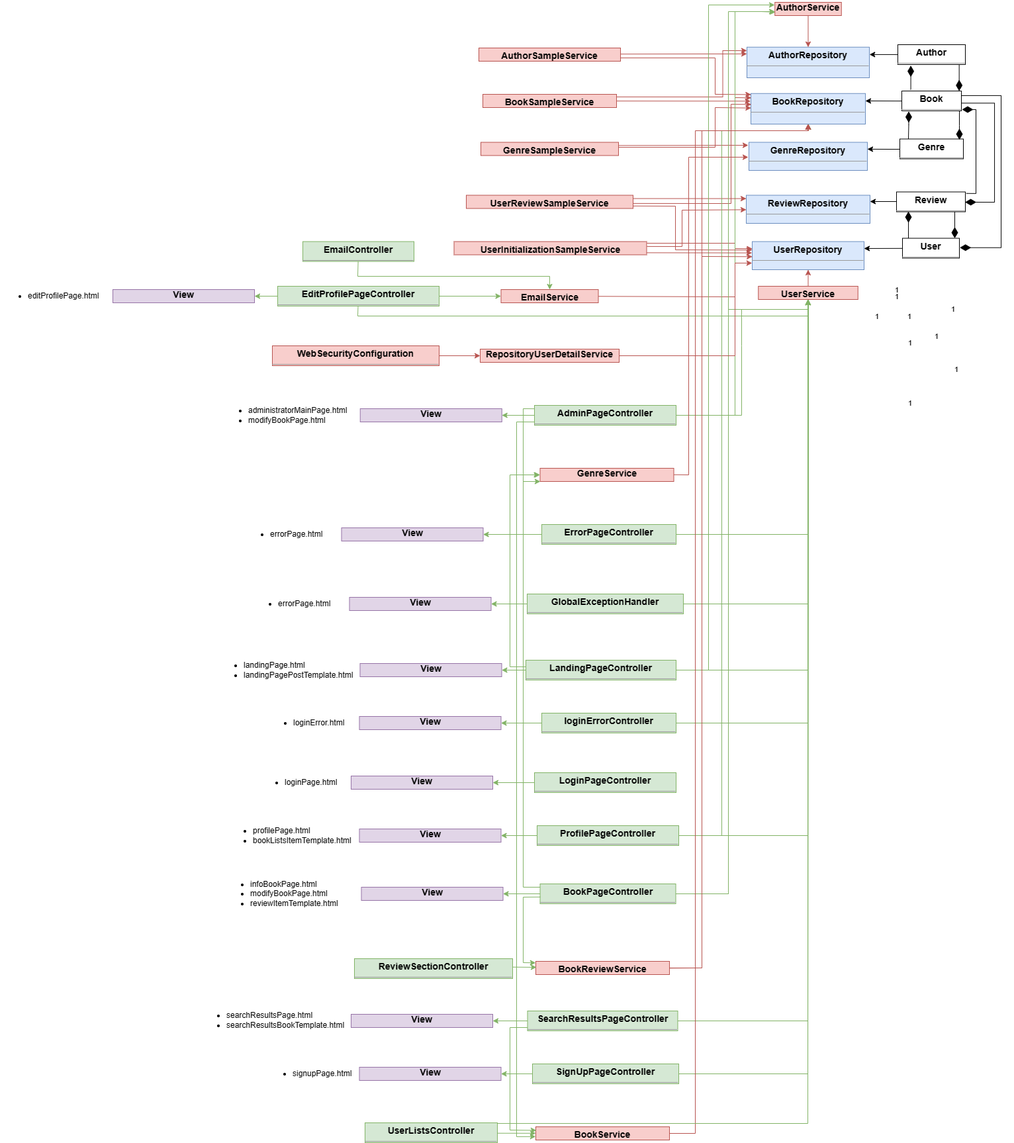
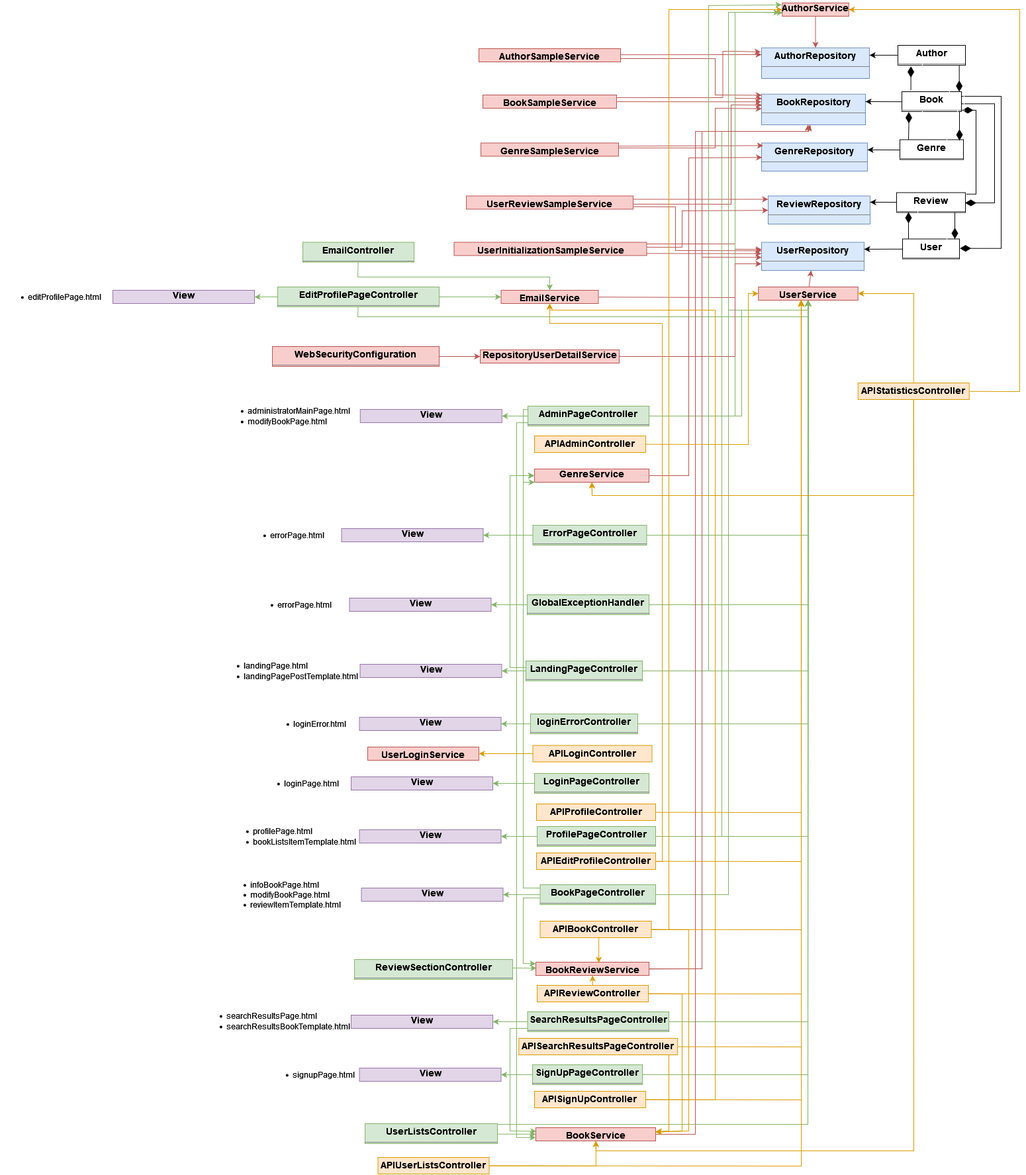
README: Updated documentation
The Class Diagram has been updated to include all the Rest Controllers implemented in this phase.

Added steps to deploy the application on the Virtual Machine provided by the University.

Added participation info.

Changed region(s): [[0.0307, 0.0, 1.0, 1.0], [0.8283, 0.3069, 0.951, 0.3683], [0.2761, 0.491, 0.3068, 0.5217]]

diff --git a/README.md b/README.md
@@ -264,38 +264,105 @@ Para poder crear a imagen de la aplicación es necesario tener docker instalado 
     ```
 
 ## 🛫 Despliegue de la aplicación en una máquina virtual
+### Pasos previos
+1. Descargar la clave proporcionada a través de correo electrónico por parte de los docentes.
+2. Instalar la [VPN de la Universidad](https://vpn.urjc.es/global-protect/getsoftwarepage.esp) y [establecer la conexión](https://www.urjc.es/principal-intranet/documentos/general/82-configuracion-vpn-urjc/file) o conectarse a la red de la Universidad a través del Escritorio de Desarrollo.
+
+### Pasos para el despliegue
+1. Conectarse a la máquina virtual:
+    ```
+    ssh -i prAppWeb22.key vmuser@10.100.139.28
+    ```
+   ⚠ **Nota importante**:
+   Si se usa Windows, [es necesario cambiar los permisos del fichero .key para que no sea accesible por otros usuarios](https://github.com/microsoft/vscode-remote-release/issues/1619#issuecomment-760990038).
+
+
+2. Instalar Docker con Docker Compose en la máquina virtual:
+    ```
+    # Add Docker's official GPG key:
+    sudo apt-get update
+    sudo apt-get install ca-certificates curl
+    sudo install -m 0755 -d /etc/apt/keyrings
+    sudo curl -fsSL https://download.docker.com/linux/ubuntu/gpg -o /etc/apt/keyrings/docker.asc
+    sudo chmod a+r /etc/apt/keyrings/docker.asc
+    
+    # Add the repository to Apt sources:
+    echo \
+    "deb [arch=$(dpkg --print-architecture) signed-by=/etc/apt/keyrings/docker.asc] https://download.docker.com/linux/ubuntu \
+    $(. /etc/os-release && echo "$VERSION_CODENAME") stable" | \
+    sudo tee /etc/apt/sources.list.d/docker.list > /dev/null
+    sudo apt-get update
+    ```
+   Este script se ha obtenido de aquí: [Docker Install](https://docs.docker.com/engine/install/ubuntu/)
+
+
+3. Clonar el repositorio en la máquina virtual:
+    ```
+    git clone https://github.com/CodeURJC-DAW-2023-24/webapp03.git
+    ```
+   
+4. Dirigirse a la carpeta "docker" del repositorio, donde se encuentra el fichero docker-compose.yml:
+    ```
+    cd webapp03/docker
+    ```
+   
+5. Ejecutar el siguiente comando para iniciar la aplicación:
+    ```
+    sudo docker compose up -d
+    ```
+   "-d" permite que se ejecute en segundo plano, para poder ver la consola de la aplicación, se puede omitir.
+
+
+6. Una vez haya terminado de arrancar, conectarse a:
+    ```
+    https://10.100.139.28:8443
+    ```
+
+### Detener la aplicación
+Una vez inicializada la aplicación, para detenerla se puede hacer con:
+    ```
+    sudo docker compose stop
+    ```
+
+Esto debe ejecutarse en la carpeta "docker" del repositorio.
+
+
+### Volver a arrancar la aplicación
+Una vez ya ha sido detenida, se puede volver a arrancar con:
+    ```
+    sudo docker compose up -d
+    ```
+
+Esto debe ejecutarse en la carpeta "docker" del repositorio.
+
 
 ## 📋 Participación
 
 ### En esta fase
 #### Sergio Antonio Olivares del Ángel:
-En esta fase me dedique a trabajar en distintas partes del sistema con tareas diferentes. La lista de tareas que realice en esta fase es: Controlar usuario, admin y autor, donde se verifica que en el caso de un usuario solo pueda modificar su perfil, en el caso de un autor, solo pueda modificar su libro y finalmente los admins pueda modificar cualquier información; Adición de imágenes en los libros, que consistió en convertir las imágenes en tipo Blob para poder guardarlas en la base de datos y posteriormente convertirlas en String en Base64 para poder mostrarlas en el HTML; Registro de usuario, que añade funciones donde se verifica el que el nombre de usuario no este ocupado y que la contraseña tenga 4 caracteres y 1 un numero asi como que coincida con ambos inputs de contraseña para asegurar que no hubo fallos; Modificación de libros, donde creé la base de modificación de libros antes de integrar la base de datos; Adición de libros, donde los admins pueden crear libros y se ligaran los datos correspondientes, como Genero y Autor y finalmente se actualizara la base de datos; Banear usuarios, el admin tiene la funcionalidad de borrar usuarios de la base de datos y por tanto eliminar su pagina de perfil; Convertir en autor a los usuarios, un admin puede añadir el rol de Autor en los usuarios para que puedan modificar sus libros.
+
 
 #### Pablo Antolín Martínez:
-Durante esta fase me he encargado de implementar la seguridad en la página web. Se ha añadido un certificado autofirmado para que esté implementado https y también se ha añadido seguridad contra ataques CSRF, con sus respectivos tokens.
-También se ha implementado el control de acceso a la web mediante distintos roles de usuarios, anónimo, registrado, autor y administrador. Cada usuario tiene permitido al acceso a determinadas páginas, evitando que puedan acceder a alguna de ellas sin permiso y puedan hacer cambios que no están permitidos.
-Se han enlazado correctamente todas las páginas y se ha ajustado qué ve cada usuario en la navbar. Además, se ha añadido una página de loginError, que, en el caso de que el usuario introduzca mal sus credenciales, será redireccionado a esta misma.
+
 
 #### Izan Ruiz Ballesteros:
-Se han enlazado todas las páginas mediante Spring, se ha creado, desplegado y conectado la base de datos, así como el control de los ficheros que se guardan en ella (imágenes); se ha implementado AJAX en las páginas principales que muestran múltiples elementos. Así mismo, se han implementado diversas tecnologías complementarias como el envío de correos electrónicos o la exportación a CSV de determinados datos. Se ha gestionado el control y seguridad de los usuarios y de la web, y se ha implementado un algoritmo de recomendaciones.
+En esta fase me he dedicado a supervisar el desarrollo de la API REST, así como la implementación de muchos de sus métodos, tales como el que permite obtener la información necesaria para elaborar las gráficas, los algoritmos y otros de crucial importancia como el de inicio de sesión mediante JWT.
+Así mismo, me he dedicado a dividir el código en Servicios que son de uso común para los Controladores de la API REST y los Controladores de la aplicación web, de manera que se pueda reutilizar el código y se evite la duplicidad del mismo.
+También me he encargado del despliegue de la aplicación en la máquina virtual.
+He colaborado en la creación de la documentación de la API REST y en la actualización del resto de la documentación.
+
 
 #### Blas Vita Ramos:
-Ha creado la página de resultados de búsqueda, que muestra tantos libros como coincidencias haya por título, libro, saga, autor, descripción, ISBN, editorial o género.
-Además, se ha encargado de la carga dinámica de libros en dicha página por medio de AJAX.
-También, ha sido el responsable de la tecnología complementaria de exportación de listas de libros de usuarios a archivos de valores separados por comas CSV.
-Por otro lado, ha sido el responsable de la edición al completo del perfil de usuario, por supuesto haciendo un control del usuario en todo momento, y permitiendo a este modificar toda la información básica (alias, correo electrónico y descripción), guardándose esta misma en la base de datos.
-Además, ha hecho el manejo de imágenes de perfil, almacenándolas en la base de datos como Blobs, y mostrándose en todas aquellas páginas donde se muestra la navbar (páginas de resultados, administrador, editar perfil, mostrar perfil, error, libro, principal, modificar libro) y, por supuesto, en la propia página de información de perfil y edición del mismo.
-De esta manera además, ha implementado la funcionalidad de cambiar imagen de perfil, que permite al usuario escoger una imagen de su preferencia, estableciéndola como la imagen de perfil en todas dichas páginas, y sobreescribiéndose sobre la anterior en la base de datos.
-Por último, ha implementado la funcionalidad de cambio de contraseña, que permite al usuario cambiar su contraseña, siendo guiado acerca de los requisitos que esta ha de tener, como longitud o inclusión de carácteres. Además, se ha asegurado de que, por seguridad, el usuario conoce su contraseña actual antes de cambiarla y, en caso de no ser así, se lo hace saber. En el caso de cumplirse todos los requisitos, la contraseña, que en todo momento es encriptada (tanto actual como nueva), se actualiza en la base de datos, y el usuario es notificado por correo electrónico de dicho cambio, como servicio que ha implementado mi compañero Izan.
+
 
 #### Diego Rodriguez Gallego
-En esta fase mi objetivo ha sido realizar la gestión y el tratamiento de la información relacionada con los libros dentro de la página web, estableciendo la base inicial para que la aplicación empezase a usar la base de datos para obtener su información y continuando de manera que se pudiese modificar de diversas maneras los datos que poseían estos libros (almacenando nueva información o borrándola). También se han añadido Queries específicas en algunos casos que requerían del uso de llamadas a la base de datos con selecciones puntuales. También he trabajado de manera más leve en el servicio de envío de correos, para que en caso de que un usuario modifique su contraseña, este sea notificado. Todos los elementos de adición, borrado y modificación de libros están actualmente implementados de manera que solo los usuarios con permisos especiales ("Autores" en sus propios libros y "Administradores" en cualquier libro) puedan alterar los contenidos y se actualicen en la base de datos.
 
 
-| Miembro                                                          | Commit #1                                                                                                                                                        | Commit #2                                                                                                                                                          | Commit #3                                                                                                                                                | Commit #4                                                                                                                                                          | Commit #5                                                                                                                                     | Archivo #1                                                                                                                                                                                   | Archivo #2                                                                                                                                                                                       | Archivo #3                                                                                                                                                                          | Archivo #4                                                                                                                                                                      | Archivo #5                                                                                                                                          |
- |------------------------------------------------------------------|------------------------------------------------------------------------------------------------------------------------------------------------------------------|--------------------------------------------------------------------------------------------------------------------------------------------------------------------|----------------------------------------------------------------------------------------------------------------------------------------------------------|--------------------------------------------------------------------------------------------------------------------------------------------------------------------|-----------------------------------------------------------------------------------------------------------------------------------------------|----------------------------------------------------------------------------------------------------------------------------------------------------------------------------------------------|--------------------------------------------------------------------------------------------------------------------------------------------------------------------------------------------------|-------------------------------------------------------------------------------------------------------------------------------------------------------------------------------------|---------------------------------------------------------------------------------------------------------------------------------------------------------------------------------|-----------------------------------------------------------------------------------------------------------------------------------------------------| 
-| [Sergio Antonio Olivares del Angel](https://github.com/Mercii01) | [Book images can now be uploaded and saved in DB](https://github.com/CodeURJC-DAW-2023-24/webapp03/commit/2ae7c8706eefb15b71523a4485d55e4b2afb9979)              | [Ban Users (Delete from DB)](https://github.com/CodeURJC-DAW-2023-24/webapp03/commit/e08b6616897f6f4a1deed679b40d78e99476f1f3)                                     | [Users can now register and requirements are checked](https://github.com/CodeURJC-DAW-2023-24/webapp03/commit/02fca970042a9e4d98a4b487c6f721117cafcfbc)  | [User,Author and Admin button controls](https://github.com/CodeURJC-DAW-2023-24/webapp03/commit/56f439a089eed746a61657e6310d6f3e0034a660)                          | [Admins can now add books](https://github.com/CodeURJC-DAW-2023-24/webapp03/commit/7e5ff9eaddcaf4db5a09917cfcc039008ed1c313)                  | [AdminPageController.java](https://github.com/CodeURJC-DAW-2023-24/webapp03/blame/Database-Implementation/backend/src/main/java/es/codeurjc/webapp03/controller/AdminPageController.java)            | [ProfilePageController.java](https://github.com/CodeURJC-DAW-2023-24/webapp03/blame/Database-Implementation/backend/src/main/java/es/codeurjc/webapp03/controller/ProfilePageController.java)            | [SignupPageController.java](https://github.com/CodeURJC-DAW-2023-24/webapp03/blame/Database-Implementation/backend/src/main/java/es/codeurjc/webapp03/controller/SignUpPageController.java) | [BookPageController.java](https://github.com/CodeURJC-DAW-2023-24/webapp03/blame/Database-Implementation/backend/src/main/java/es/codeurjc/webapp03/controller/BookPageController.java) | [Signup.js](https://github.com/CodeURJC-DAW-2023-24/webapp03/blame/Database-Implementation/backend/src/main/resources/static/js/signUp.js)                  | 
-| [Pablo Antolín Martínez](https://github.com/Pbantolin12)         | [HTTPS implemented](https://github.com/CodeURJC-DAW-2023-24/webapp03/commit/64535f52f93a6761defd52dc63bd396feb8602eb)                                            | [LoginErrorpage and controller implemented](https://github.com/CodeURJC-DAW-2023-24/webapp03/commit/128f8a0a46923cf6b8698e9c761155258d743cc2)                      | [Implemented login with data base credentials](https://github.com/CodeURJC-DAW-2023-24/webapp03/commit/41879b92dbce999c95e150c7a2994c15856d1696)         | [Implemented CSRF](https://github.com/CodeURJC-DAW-2023-24/webapp03/commit/a502ad1472e38e9b8db3ae2402b26715e13a8a17)                                               | [Fixed Navbar links and logout button](https://github.com/CodeURJC-DAW-2023-24/webapp03/commit/740dd828ee657339bbdec35024f89e53c73b48ab)      | [WebSecurityConfiguration.java](backend/src/main/java/es/codeurjc/webapp03/security/WebSecurityConfiguration.java)                                                                                   | [CSRFHandlerConfiguration.java](backend/src/main/java/es/codeurjc/webapp03/security/CSRFHandlerConfiguration.java)                                                                                       | [loginError.html](backend/src/main/resources/templates/loginError.html)                                                                                                                     | [loginErrorController.java](backend/src/main/java/es/codeurjc/webapp03/controller/loginErrorController.java)                                                                            | [ProfilePageController.java](backend/src/main/java/es/codeurjc/webapp03/controller/ProfilePageController.java)                                              |
-| [Izan Ruiz Ballesteros](https://github.com/Etheko)               | [Data added to Database](https://github.com/CodeURJC-DAW-2023-24/webapp03/commit/a40358089815945b5cba0ac1f5d0b11b2d11fdd5)                                       | [AJAX fully fixed and finalized on main pages](https://github.com/CodeURJC-DAW-2023-24/webapp03/commit/66516b601089f109dd77bab6e1ed8882dbdedbfb)                   | [Landing Page Recommendations algorithm](https://github.com/CodeURJC-DAW-2023-24/webapp03/commit/d85b20b6bea046b824d8a000b52e529a428ecf19)               | [Reviews System fully implemented](https://github.com/CodeURJC-DAW-2023-24/webapp03/commit/a44d626de25c43ddb949712d238cf22ac4dbb911)                               | [All important pages connected with Spring](https://github.com/CodeURJC-DAW-2023-24/webapp03/commit/85e911684e8c8e9239da1ce3d40d6e146fbd74ea) | [AuthorSampleService.java](backend/src/main/java/es/codeurjc/webapp03/service/AuthorSampleService.java)                                                                                              | [BookSampleService.java](backend/src/main/java/es/codeurjc/webapp03/service/BookSampleService.java)                                                                                                      | [GenreSampleService.java](backend/src/main/java/es/codeurjc/webapp03/service/GenreSampleService.java)                                                                                       | [UserInitializationSampleService.java](backend/src/main/java/es/codeurjc/webapp03/service/UserInitializationSampleService.java)                                                         | [UserReviewSampleService.java](backend/src/main/java/es/codeurjc/webapp03/service/UserReviewSampleService.java)                                             | 
-| [Blas Vita Ramos](https://github.com/Blasetvrtumi)               | [Updated README.md with screenshots](https://github.com/CodeURJC-DAW-2023-24/webapp03/commit/fac896b630f94a503d6852ac1ad5a3de1b0ca006)                           | [Profile view and edition integrated](https://github.com/CodeURJC-DAW-2023-24/webapp03/commit/235f9aca8b8b561d0083c2685c25a1fd989b50a6)                            | [Dynamic search results loading with AJAX implemented](https://github.com/CodeURJC-DAW-2023-24/webapp03/commit/4369e591eb08d897bd05db7c6e4ab62ea00a782e) | [Profile image uploading and saving in database now implemented](https://github.com/CodeURJC-DAW-2023-24/webapp03/commit/94dd67b09f73bb4e907608d873b7f06c3e20db96) | [Password change now fully implemented](https://github.com/CodeURJC-DAW-2023-24/webapp03/commit/393f1498c6b9ed1aa037ab18926deabf6fd76d86)     | [EditProfilePageController.java](https://github.com/CodeURJC-DAW-2023-24/webapp03/blob/Database-Implementation/backend/src/main/java/es/codeurjc/webapp03/controller/EditProfilePageController.java) | [SearchResultsPageController.java](https://github.com/CodeURJC-DAW-2023-24/webapp03/blob/Database-Implementation/backend/src/main/java/es/codeurjc/webapp03/controller/SearchResultsPageController.java) | [User.java](https://github.com/CodeURJC-DAW-2023-24/webapp03/blob/Database-Implementation/backend/src/main/java/es/codeurjc/webapp03/entity/User.java)                                      | [searchResultsPage.js](https://github.com/CodeURJC-DAW-2023-24/webapp03/blob/Database-Implementation/backend/src/main/resources/static/js/searchResultsPage.js)                         | [editProfilePage.js](https://github.com/CodeURJC-DAW-2023-24/webapp03/blob/Database-Implementation/backend/src/main/resources/static/js/editProfilePage.js) | 
-| [Diego Rodríguez Gallego](https://github.com/DiRoGa)             | [Updated BookPageController.java to obtain info from DataBase](https://github.com/CodeURJC-DAW-2023-24/webapp03/commit/15c31c7ca1c30e7e848d8d0eea678a55e2269163) | [Updated BookpageController.java to allow for deletion of books](https://github.com/CodeURJC-DAW-2023-24/webapp03/commit/d4146c1abe84230831745098678ccc3189bda5ae) | [Updated infoBookPage.html to allow Administrators](https://github.com/CodeURJC-DAW-2023-24/webapp03/commit/de2aba98fee01edefd9812fdf4ff6efb4cbec49b)    | [Added Java files to support Email sending](https://github.com/CodeURJC-DAW-2023-24/webapp03/commit/2da02d74090e5bc97ceb22d378f9af9826e6af81)                      | [Implemented functional book deletion](https://github.com/CodeURJC-DAW-2023-24/webapp03/commit/b5254e579b916cc227e71b172c38dc533e97fb76)      | [BookPageController.java](https://github.com/CodeURJC-DAW-2023-24/webapp03/blob/Database-Implementation/backend/src/main/java/es/codeurjc/webapp03/controller/BookPageController.java)               | [EmailController.java](https://github.com/CodeURJC-DAW-2023-24/webapp03/blob/Database-Implementation/backend/src/main/java/es/codeurjc/webapp03/controller/EmailController.java)                         | [BookRepository.java](https://github.com/CodeURJC-DAW-2023-24/webapp03/blob/Database-Implementation/backend/src/main/java/es/codeurjc/webapp03/repository/BookRepository.java)              | [Book.java](https://github.com/CodeURJC-DAW-2023-24/webapp03/blob/Database-Implementation/backend/src/main/java/es/codeurjc/webapp03/entity/Book.java)                                  | [User.java](https://github.com/CodeURJC-DAW-2023-24/webapp03/blob/Database-Implementation/backend/src/main/java/es/codeurjc/webapp03/entity/User.java)      |
+
+| Miembro                                            | Commit #1                                                                                                                                                        | Commit #2                                                                                                                                                          | Commit #3                                                                                                                                               | Commit #4                                                                                                                                                         | Commit #5                                                                                                                                   | Archivo #1                                                                                                                                                                                   | Archivo #2                                                                                                                                                                                       | Archivo #3                                                                                                                                                                        | Archivo #4                                                                                                                                                                    | Archivo #5                                                                                                                                         |
+ |----------------------------------------------------|------------------------------------------------------------------------------------------------------------------------------------------------------------------|--------------------------------------------------------------------------------------------------------------------------------------------------------------------|---------------------------------------------------------------------------------------------------------------------------------------------------------|-------------------------------------------------------------------------------------------------------------------------------------------------------------------|---------------------------------------------------------------------------------------------------------------------------------------------|----------------------------------------------------------------------------------------------------------------------------------------------------------------------------------------------|--------------------------------------------------------------------------------------------------------------------------------------------------------------------------------------------------|-----------------------------------------------------------------------------------------------------------------------------------------------------------------------------------|-------------------------------------------------------------------------------------------------------------------------------------------------------------------------------|----------------------------------------------------------------------------------------------------------------------------------------------------| 
+| [Izan Ruiz Ballesteros](https://github.com/Etheko) |[JWT implementation for REST API + Review section](https://github.com/CodeURJC-DAW-2023-24/webapp03/commit/93f67d23bb9c88b5b512137611190556062449e2)|[REST API: Requests for charts building fully implemented](https://github.com/CodeURJC-DAW-2023-24/webapp03/commit/e6366bd8f37048bc0bed786852a978d6268ab1f9)|[All Services created](https://github.com/CodeURJC-DAW-2023-24/webapp03/commit/7fa908785adc8ab82ff151b9398cf0b429b099ae)|[REST API: Downloadable images + Fixes to Algorithm calls](https://github.com/CodeURJC-DAW-2023-24/webapp03/commit/02649e64ca7722acdf162235e81d312028ed60d0)|[REST API: Fixed JWT Session Management](https://github.com/CodeURJC-DAW-2023-24/webapp03/commit/c4206102722addf72dead72c55a57e872f9c0830)|[APIStatisticsController.java](https://github.com/CodeURJC-DAW-2023-24/webapp03/blob/API-REST/backend/src/main/java/es/codeurjc/webapp03/controller/APIStatisticsController.java)|[APIUserListsController.java](https://github.com/CodeURJC-DAW-2023-24/webapp03/blob/API-REST/backend/src/main/java/es/codeurjc/webapp03/controller/APIUserListsController.java)|[APIReviewController.java](https://github.com/CodeURJC-DAW-2023-24/webapp03/blob/API-REST/backend/src/main/java/es/codeurjc/webapp03/controller/APIReviewController.java)|[WebSecurityConfiguration.java](https://github.com/CodeURJC-DAW-2023-24/webapp03/blob/API-REST/backend/src/main/java/es/codeurjc/webapp03/security/WebSecurityConfiguration.java)|[APILoginController.java](https://github.com/CodeURJC-DAW-2023-24/webapp03/blob/API-REST/backend/src/main/java/es/codeurjc/webapp03/controller/APILoginController.java)| 
+| [Pablo Antolín Martínez](https://github.com/Pbantolin12) |                                             |                       |          |                                                |      |                                                                                    |                                                                                        |                                                                                                                    |                                                                           |                                              |
+|[Sergio Antonio Olivares del Angel](https://github.com/Mercii01) |                                        |                    |                |                                | |                                                                                               |                                                                                                       |                                                                                      |                                                        |                                             | 
+| [Blas Vita Ramos](https://github.com/Blasetvrtumi) |                            |                             |  |  |     |  |  |                                     |                        | | 
+| [Diego Rodríguez Gallego](https://github.com/DiRoGa) |  |  |     |                       |      |                |                          |             |                                |      |
